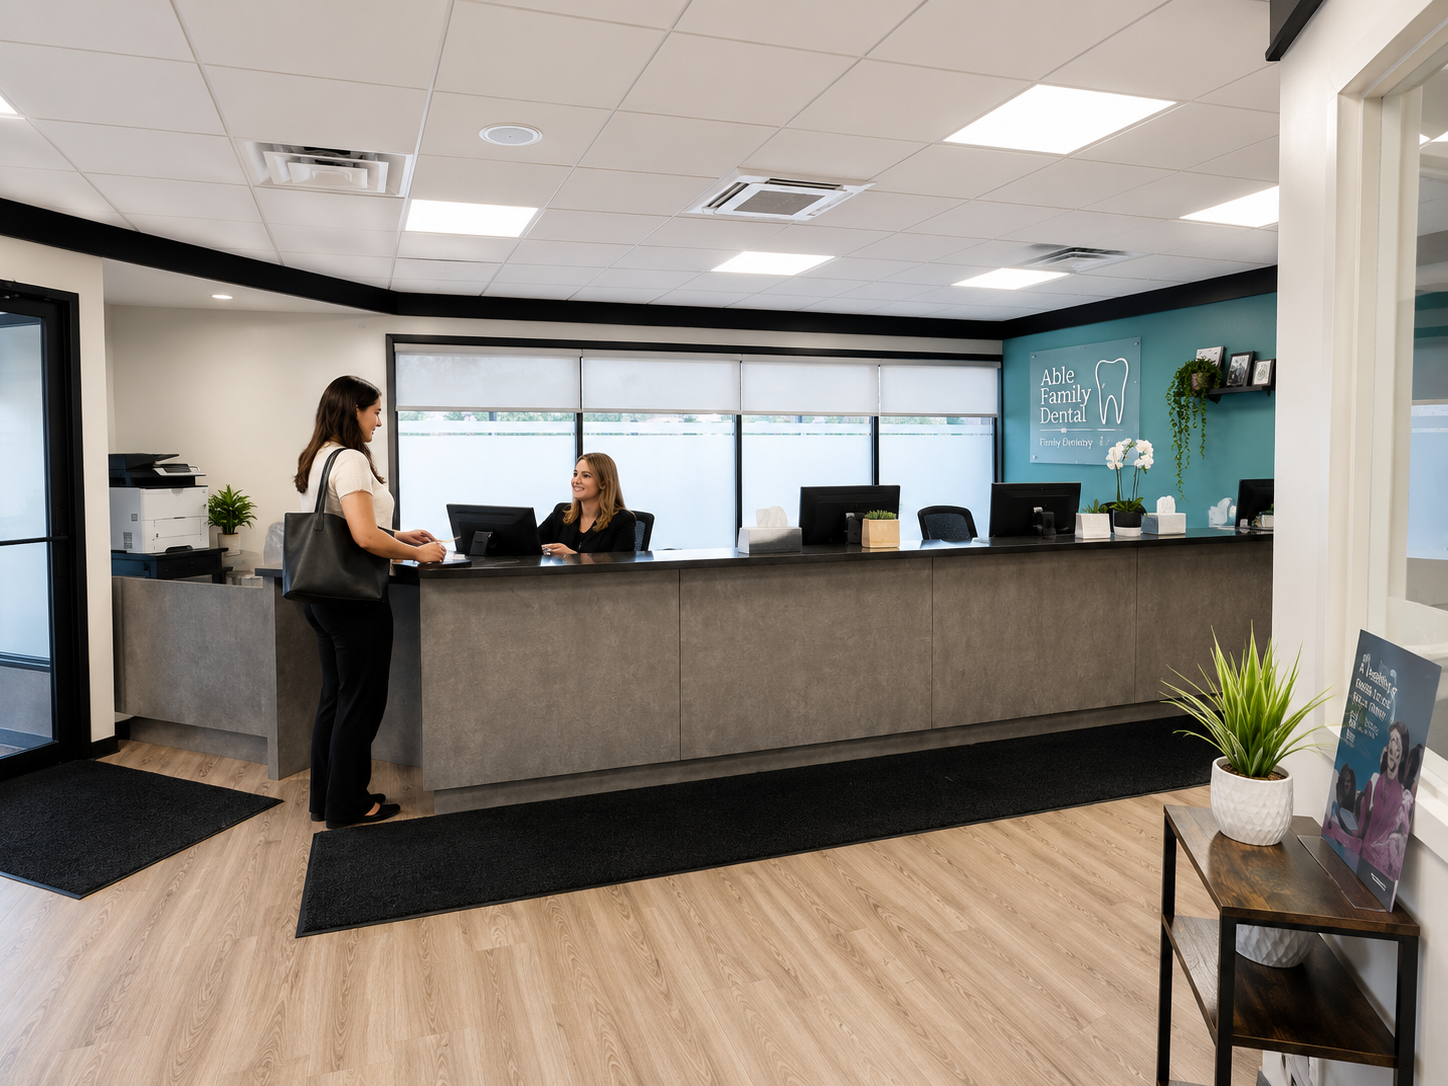
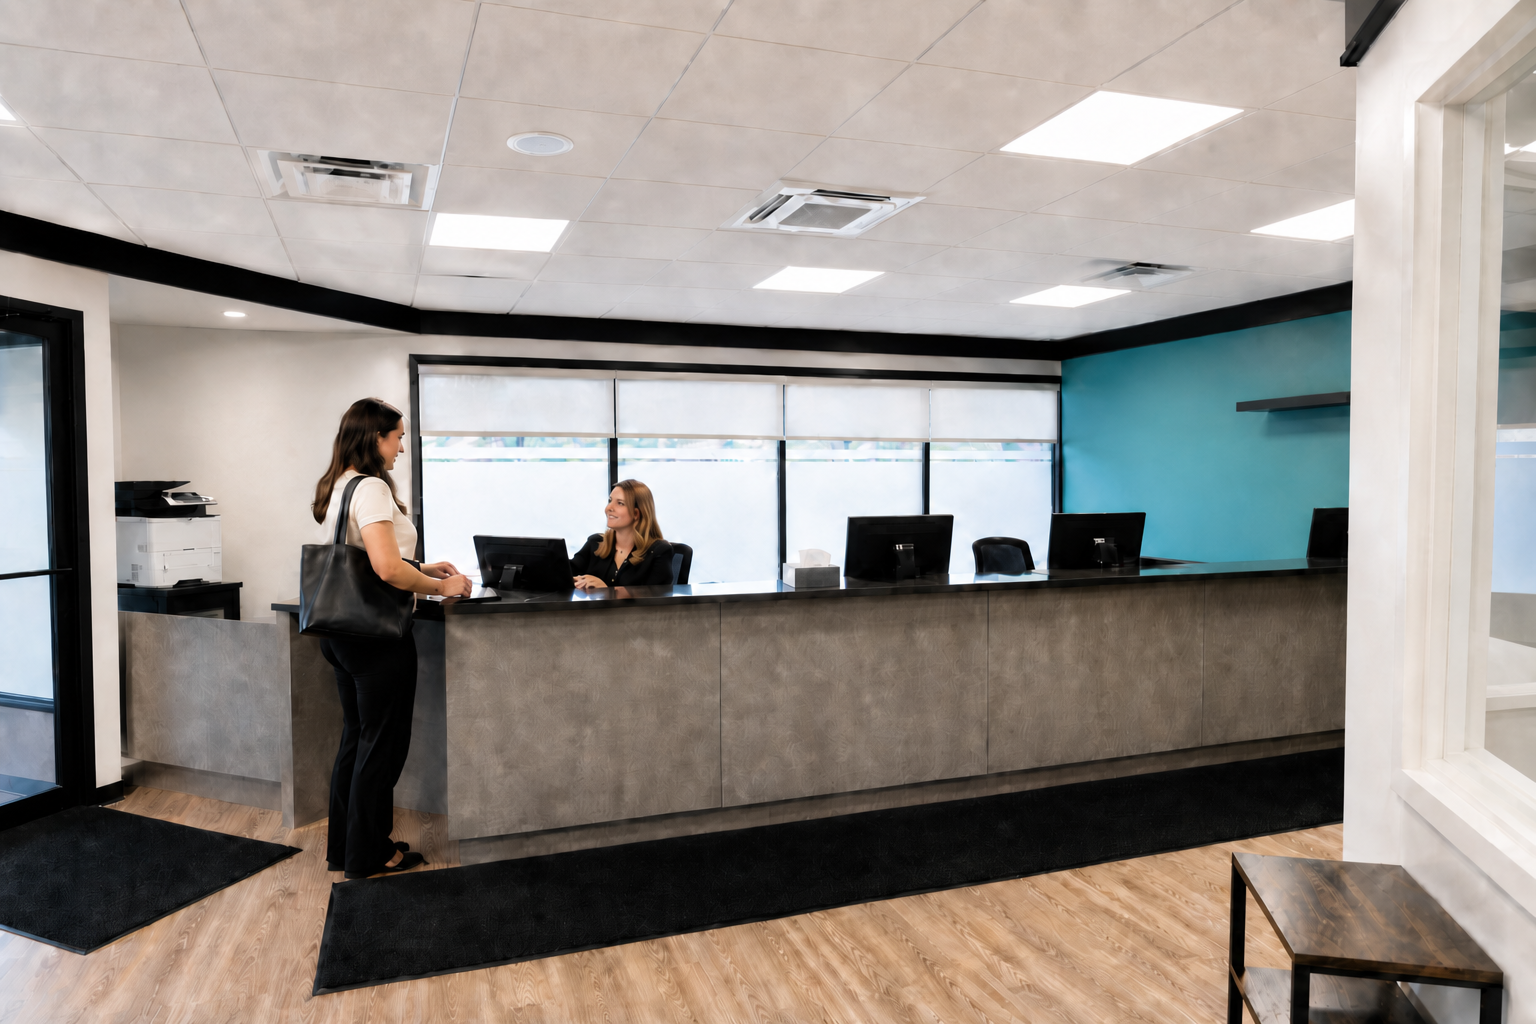
Add /marketing landing page and refresh staging imagery and hours.
Ship a new-patient landing page at /marketing/, add a Dr. Varada services hero, update Wednesday hours to 8am, and refresh careers and clinic space photos.

diff --git a/src/data/clinic.ts b/src/data/clinic.ts
@@ -17,20 +17,20 @@ export const clinic = {
   hours: [
     { day: 'Monday', hours: '8:00 am – 5:00 pm' },
     { day: 'Tuesday', hours: '8:00 am – 6:00 pm' },
-    { day: 'Wednesday', hours: '7:00 am – 5:00 pm' },
+    { day: 'Wednesday', hours: '8:00 am – 5:00 pm' },
     { day: 'Thursday', hours: '8:00 am – 6:00 pm' },
     { day: 'Friday', hours: '8:00 am – 5:00 pm' },
     { day: 'Saturday', hours: '9:00 am – 2:00 pm*' },
     { day: 'Sunday', hours: 'Closed' },
   ],
   /** Compact header utility-bar summary */
-  hoursSummary: 'Mon–Fri from 7:00 am · Sat by appointment',
+  hoursSummary: 'Mon–Fri from 8:00 am · Sat by appointment',
 } as const;
 
 export const openingHoursSpecification = [
   { '@type': 'OpeningHoursSpecification', dayOfWeek: 'Monday', opens: '08:00', closes: '17:00' },
   { '@type': 'OpeningHoursSpecification', dayOfWeek: 'Tuesday', opens: '08:00', closes: '18:00' },
-  { '@type': 'OpeningHoursSpecification', dayOfWeek: 'Wednesday', opens: '07:00', closes: '17:00' },
+  { '@type': 'OpeningHoursSpecification', dayOfWeek: 'Wednesday', opens: '08:00', closes: '17:00' },
   { '@type': 'OpeningHoursSpecification', dayOfWeek: 'Thursday', opens: '08:00', closes: '18:00' },
   { '@type': 'OpeningHoursSpecification', dayOfWeek: 'Friday', opens: '08:00', closes: '17:00' },
   { '@type': 'OpeningHoursSpecification', dayOfWeek: 'Saturday', opens: '09:00', closes: '14:00' },